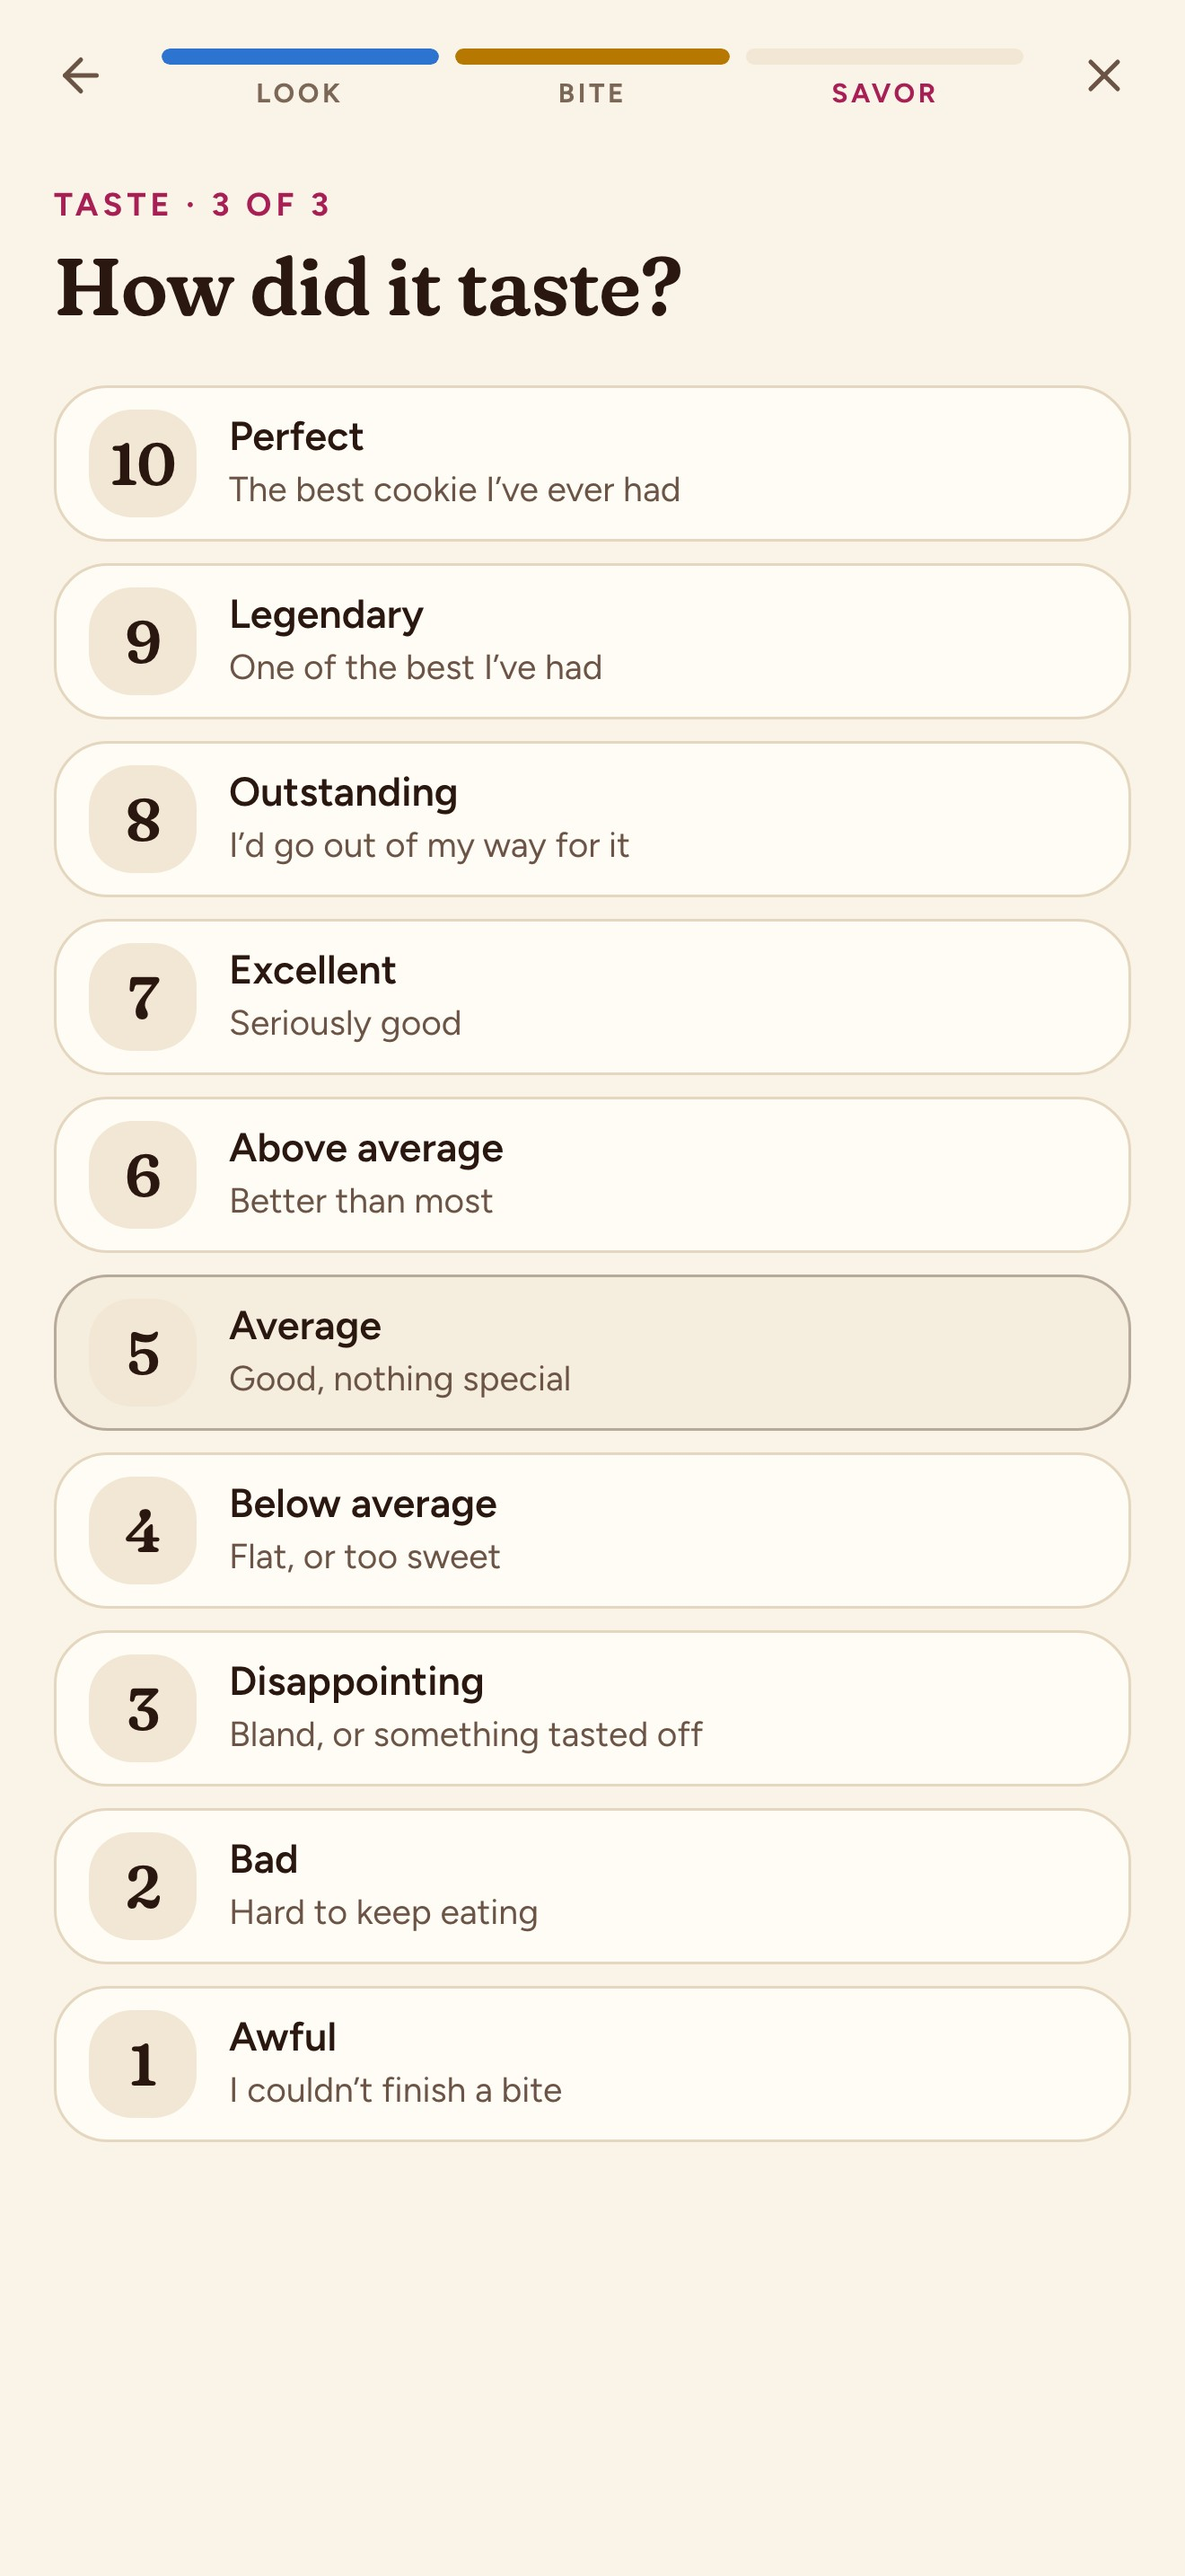
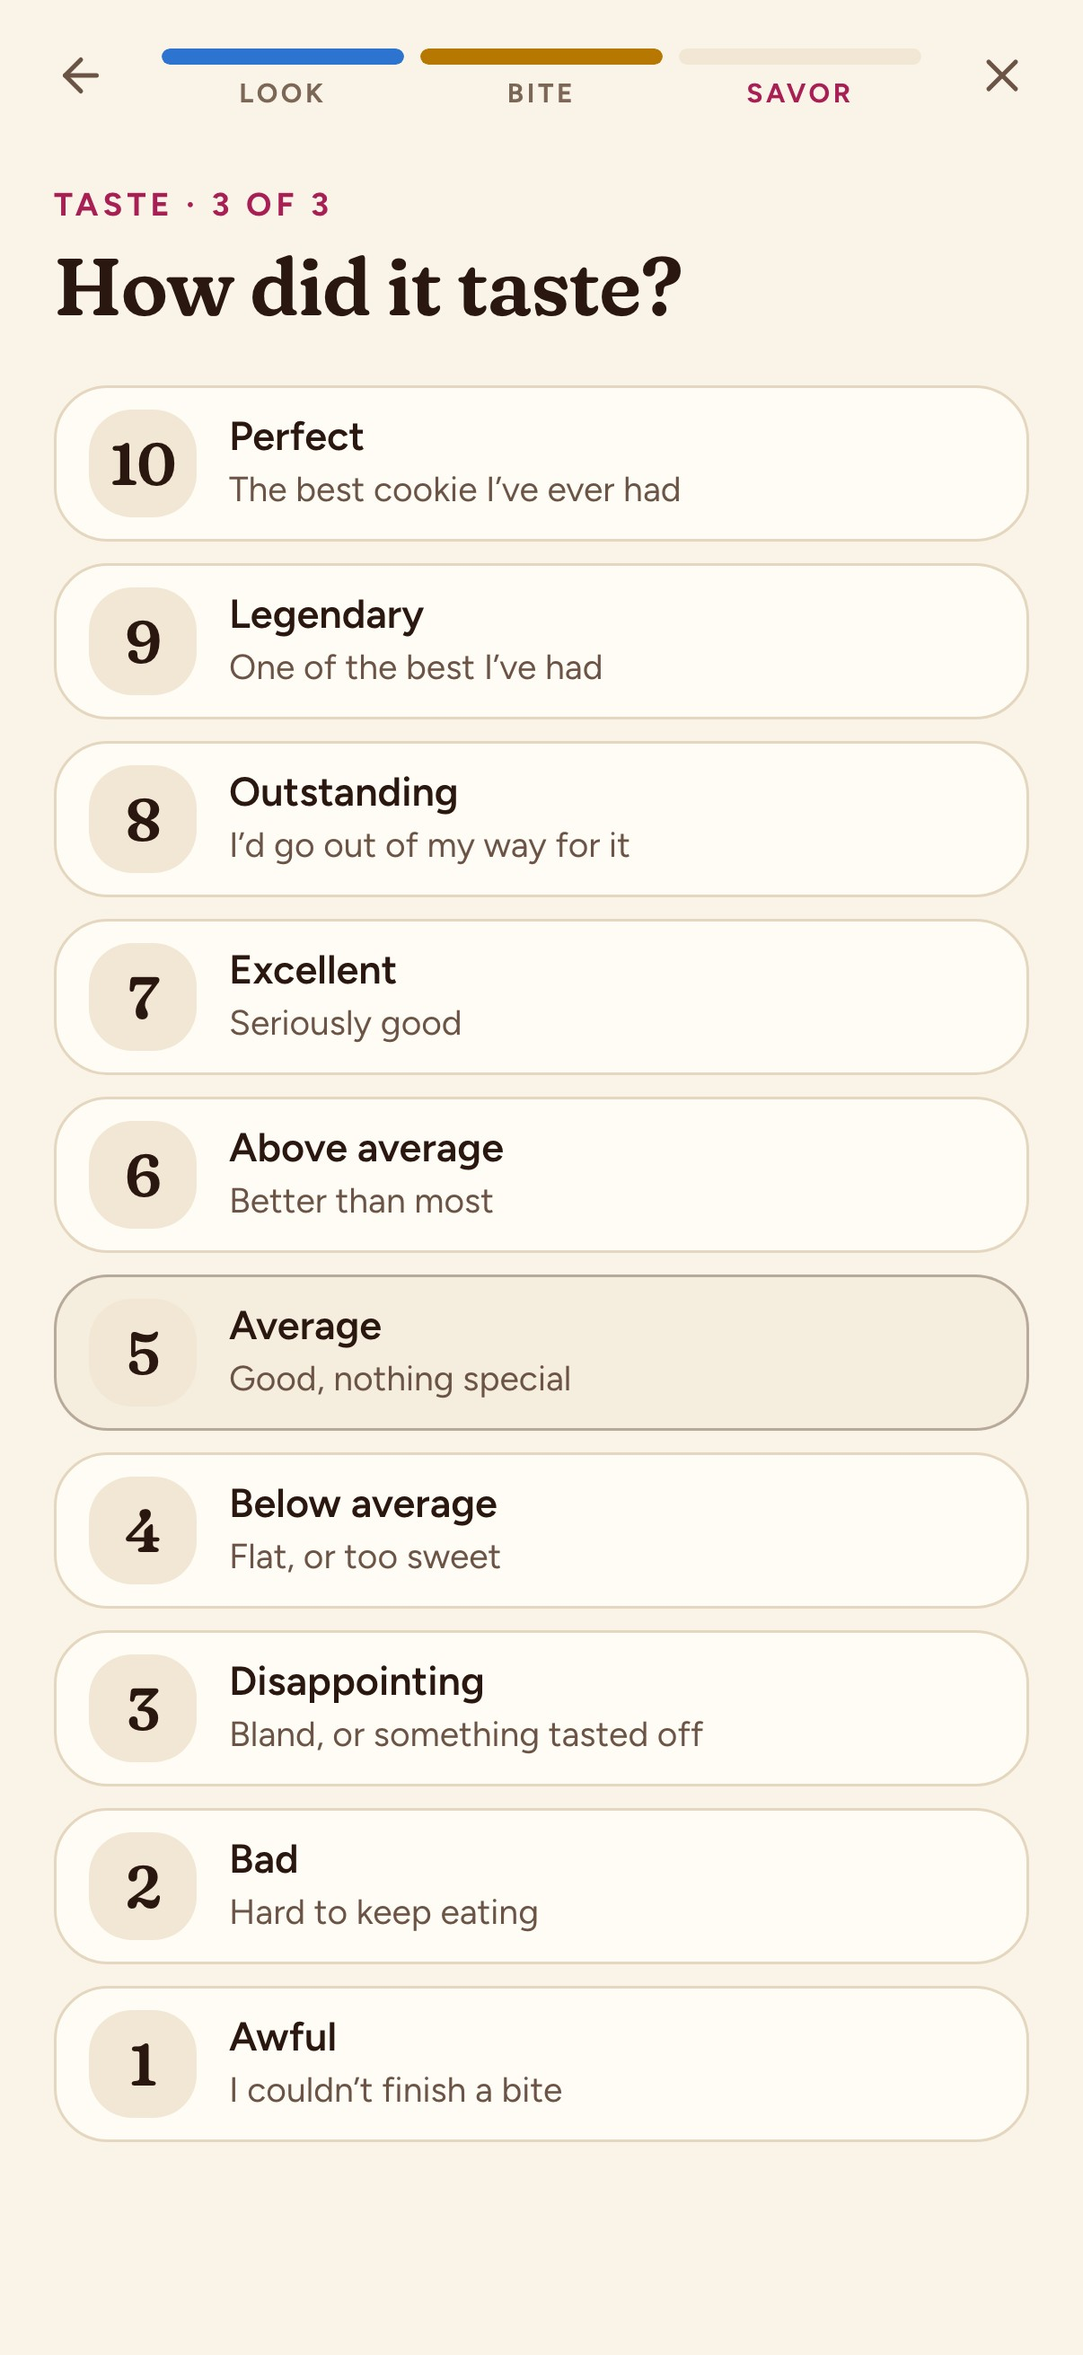
App Store screenshots at the size Apple now requires
App Store Connect turned the 1320 × 2868 screenshots away: the one size
it requires is "iPhone with Dynamic Island (medium display)", 1179 ×
2556 or 1206 × 2622, and it scales those for the other iPhones. The
script now renders at 1206 × 2622 and the six are made again.

Claude-Session: https://claude.ai/code/session_013Pa3BuQLhxcuTGrLanXtvt

diff --git a/docs/app-store/README.md b/docs/app-store/README.md
@@ -1,7 +1,9 @@
 # The App Store listing
 
 Everything App Store Connect asks for, ready to paste. The screenshots in this folder are the
-6.9-inch iPhone size (1320 × 2868), which covers every iPhone. To make them again after the app
+size App Store Connect requires, "iPhone with Dynamic Island (medium display)", 1206 × 2622.
+Apple scales them for the other iPhone sizes. (The large size, 1320 × 2868, was turned away by
+that box in November 2026.) To make them again after the app
 changes: `node scripts/app-store-screenshots.mjs`.
 
 ## Getting a build up
